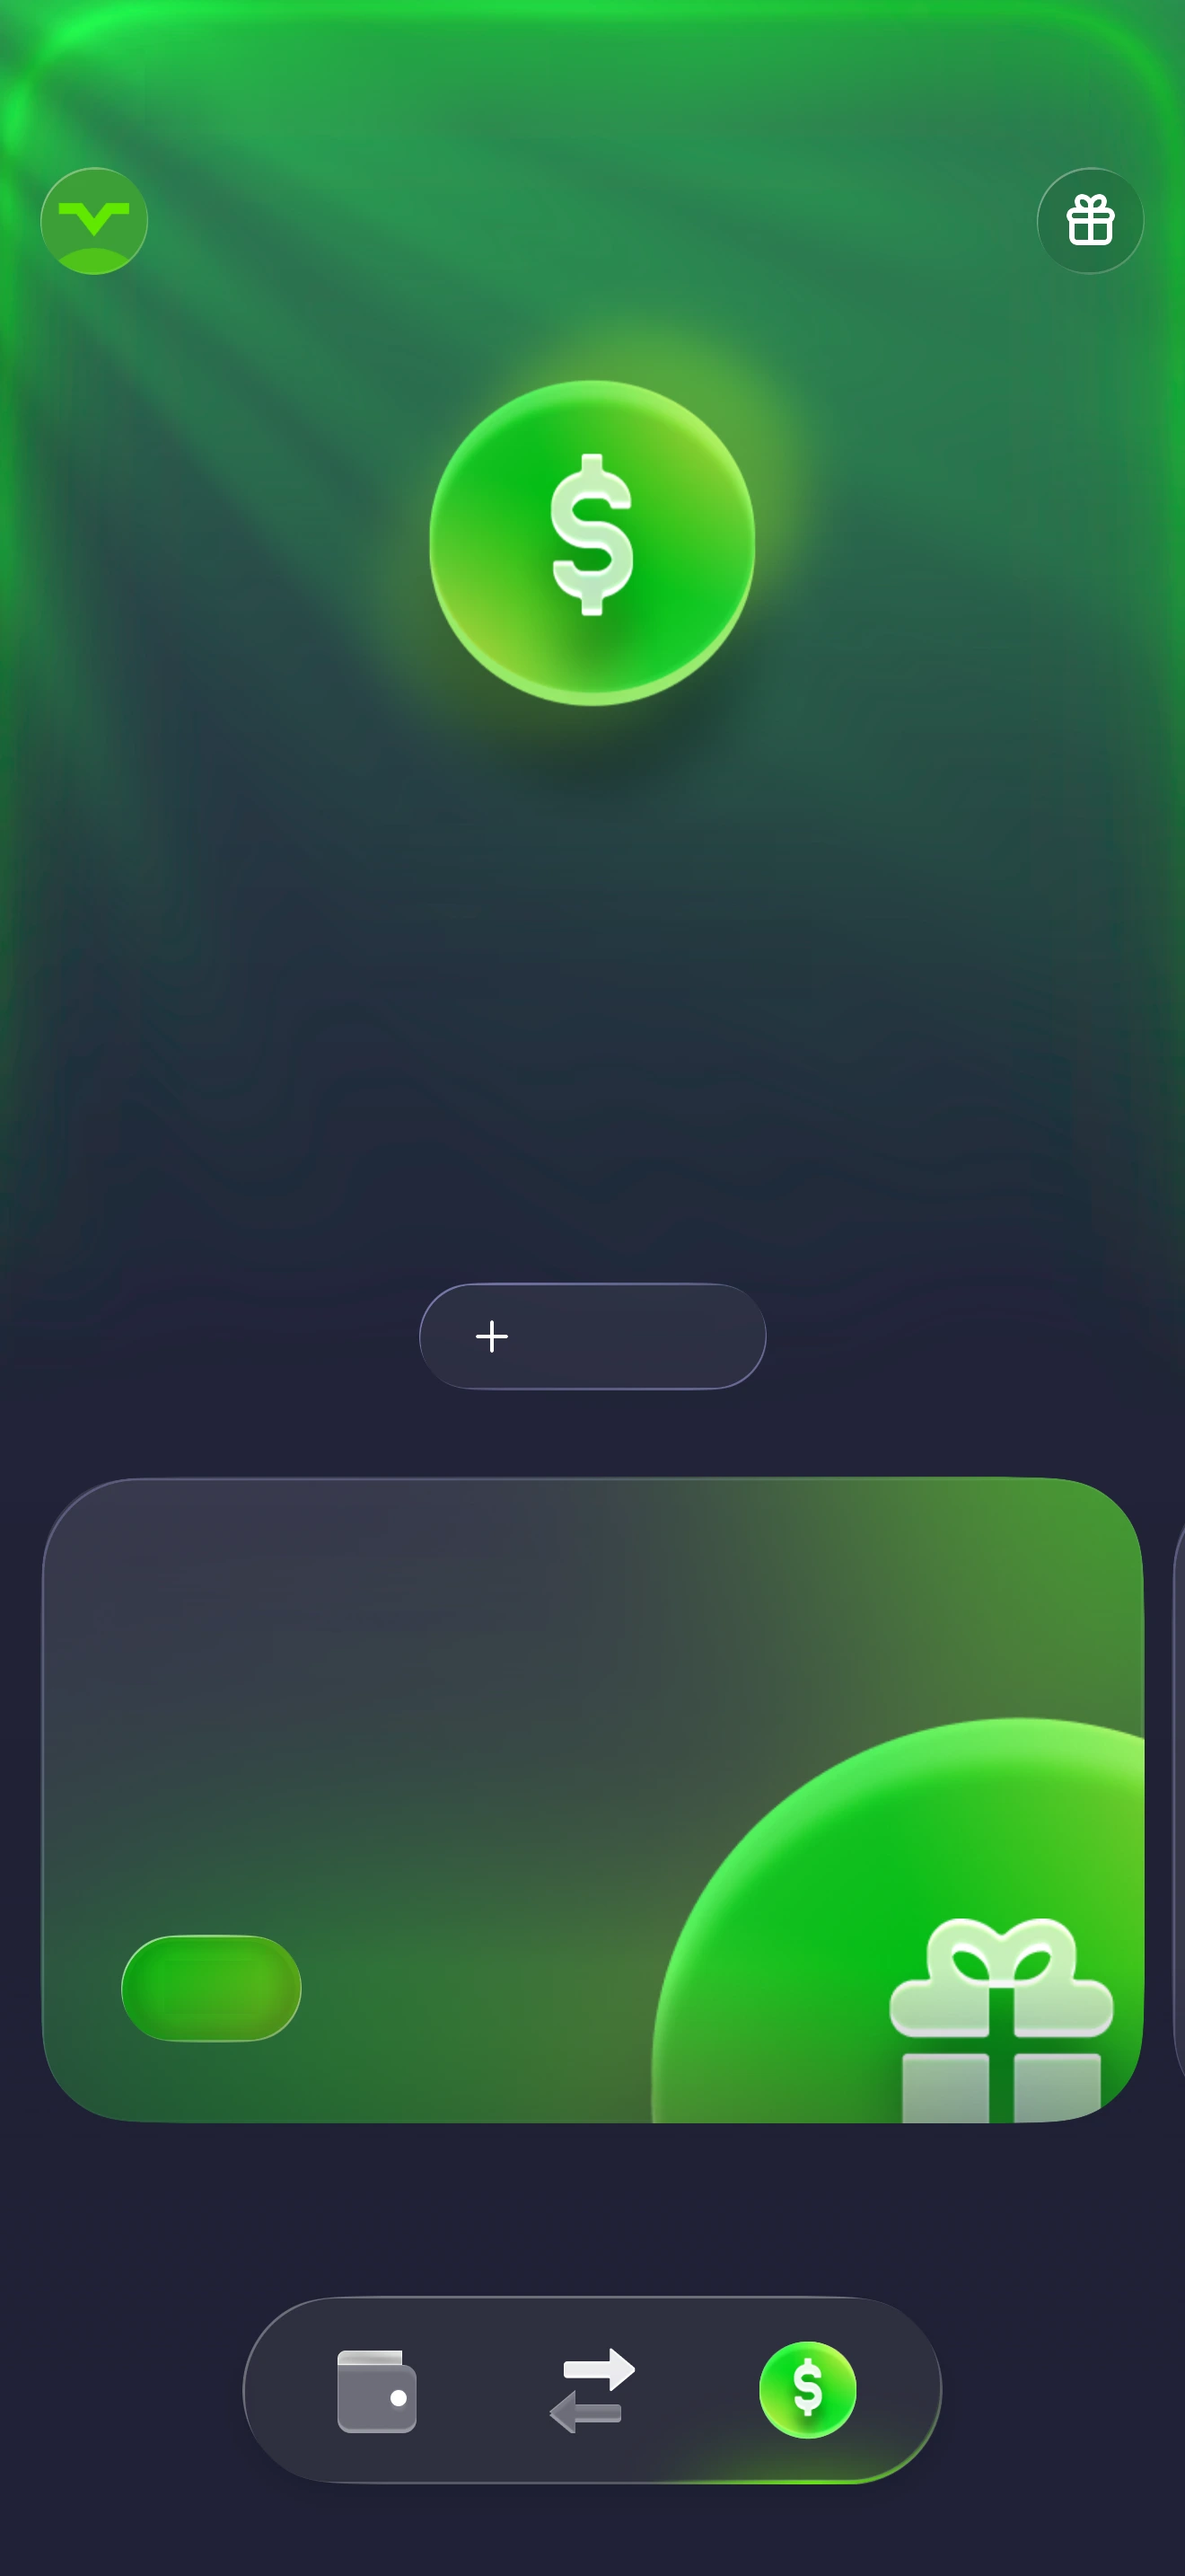
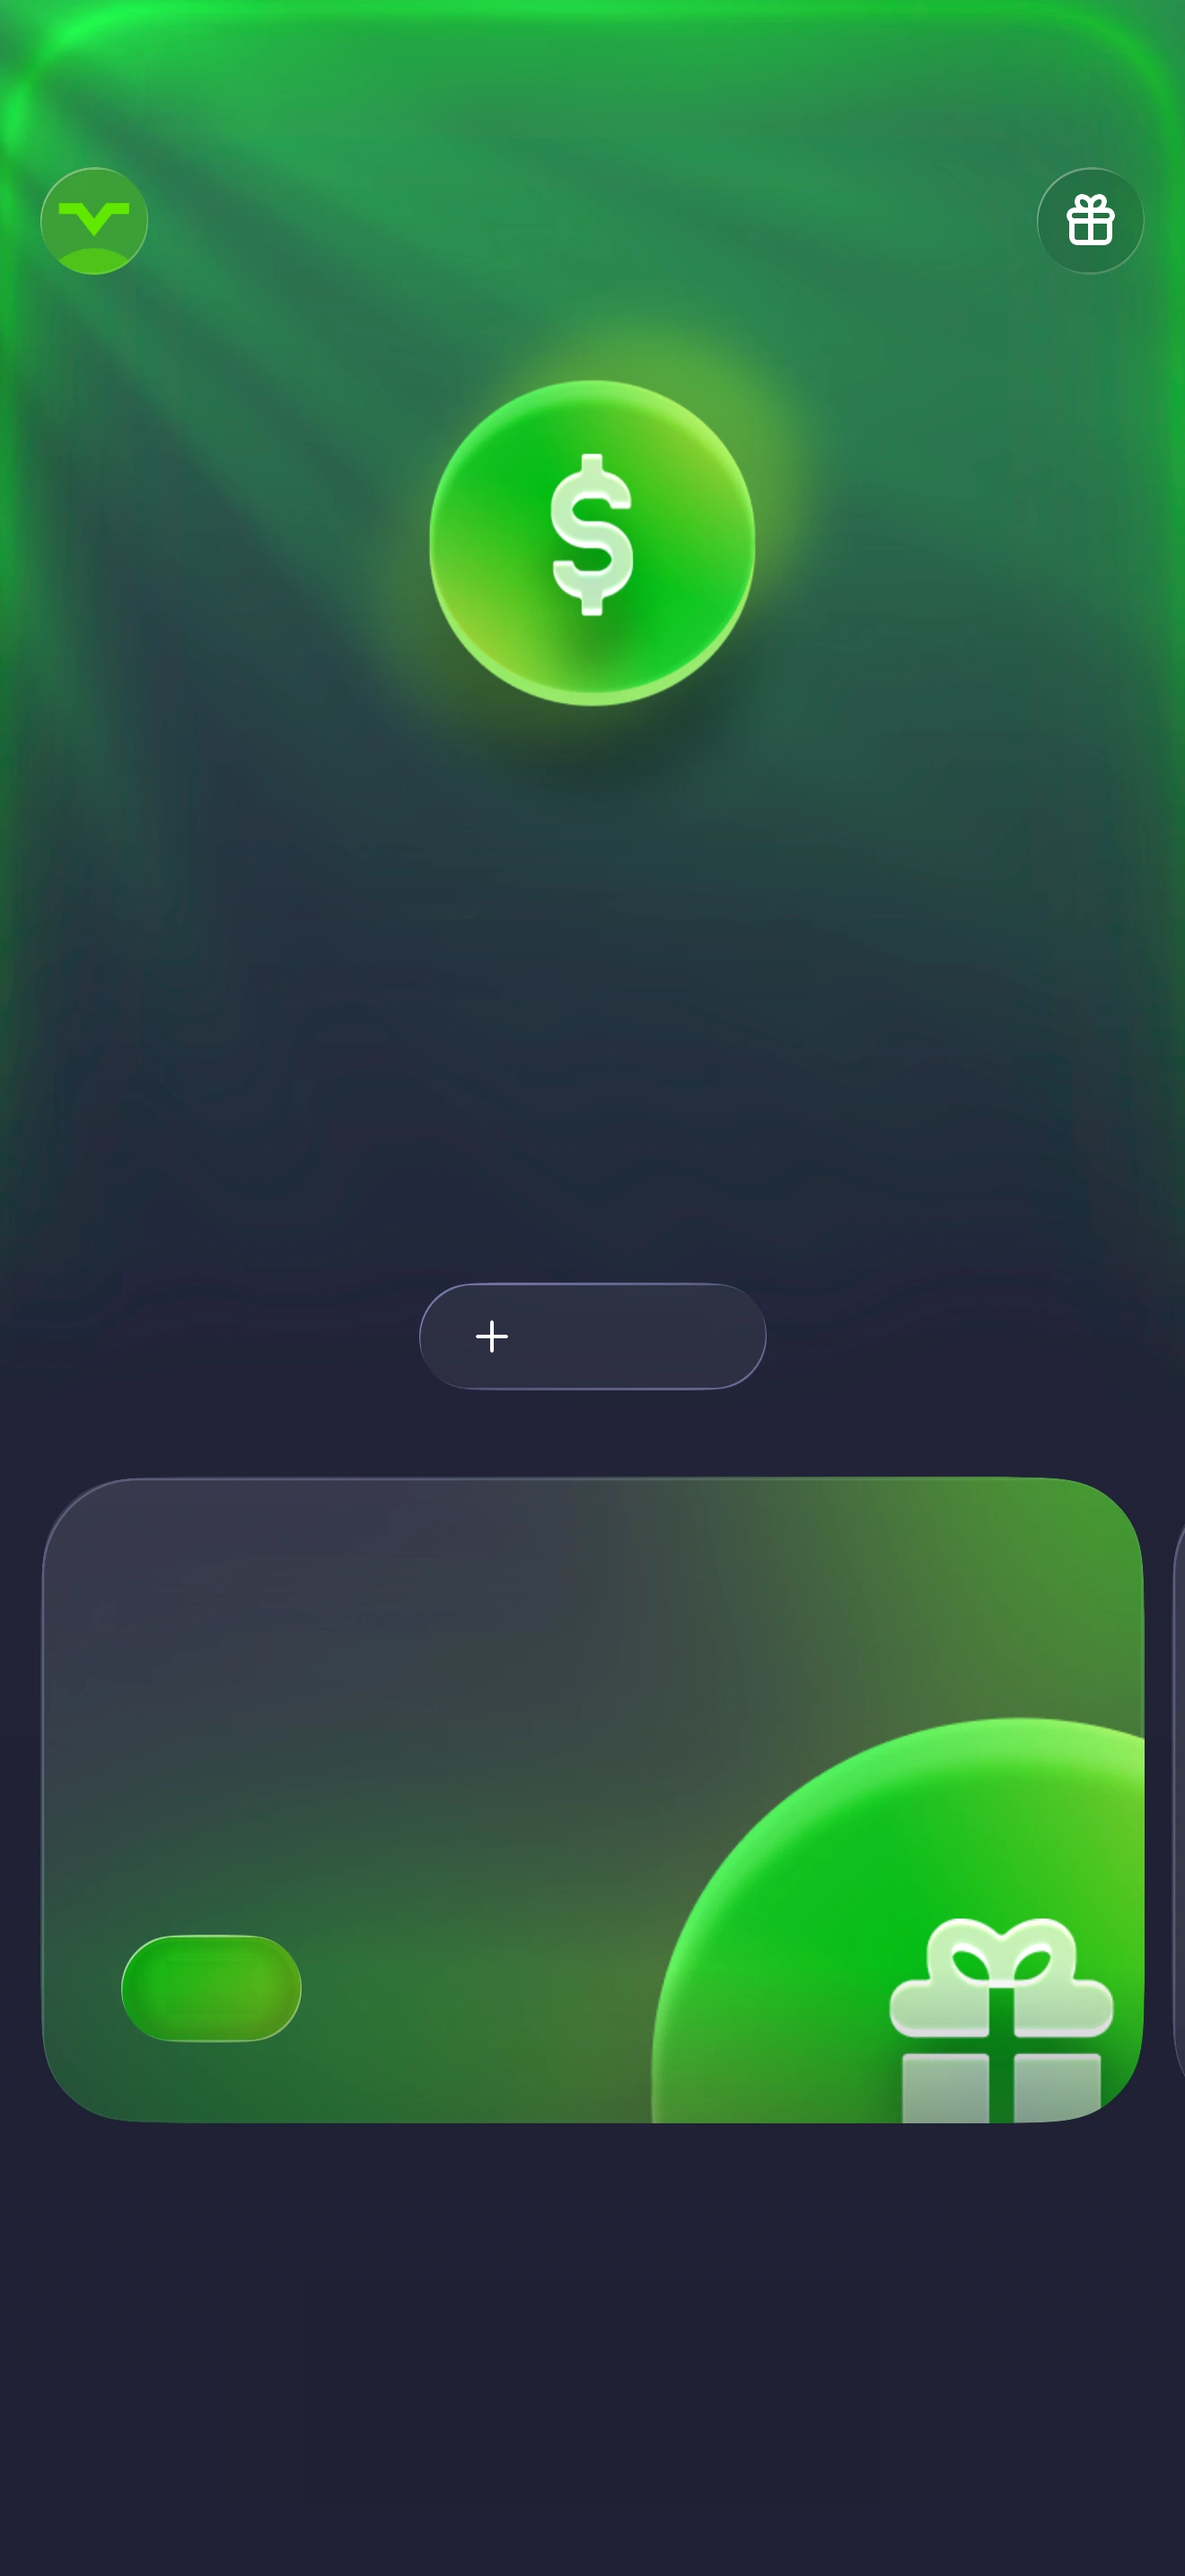
Floating tab bar shared by Wallet, Swap and Cash
Claude-Session: https://claude.ai/code/session_01SBE1Cu7BgedHNHESR53XK2

Changed region(s): [[0.5591, 0.8999, 0.7765, 0.962], [0.2795, 0.8999, 0.3727, 0.962], [0.4659, 0.8999, 0.528, 0.962]]

diff --git a/walletui/index.html b/walletui/index.html
@@ -15,8 +15,12 @@ html,body{margin:0;width:100%;height:100%;background:#1d1d36;color:#fff;overflow
 .content{position:relative;width:100%}
 .tx[data-hidden]{display:none}
 .hid .tx[data-hidden]{display:flex}.hid .tx[data-k=bal],.hid .tx[data-k=amt]{display:none}
-.nav{position:absolute;left:20.4%;width:59.4%;bottom:3.45%;aspect-ratio:547/151;border-radius:999px;overflow:hidden;z-index:3;transition:transform .3s ease,opacity .3s;pointer-events:none}
-.nav img{width:100%;height:100%;display:block}
+.nav{position:absolute;left:20.4%;width:59.4%;bottom:3.45%;aspect-ratio:547/151;border-radius:999px;z-index:3;transition:transform .3s ease,opacity .3s}
+.nav img{position:absolute;inset:0;width:100%;height:100%;display:block;border-radius:999px;opacity:0;transition:opacity .2s;pointer-events:none}
+.nav[data-t=wallet] .iw,.nav[data-t=swap] .is,.nav[data-t=cash] .ic{opacity:1}
+.nav.gone{display:none}
+.nav button{position:absolute;top:0;height:100%;width:33.4%;border:0;background:none;padding:0;cursor:pointer;border-radius:999px;-webkit-tap-highlight-color:transparent}
+.nav button:focus-visible{outline:2px solid #fff}
 .nav.away{transform:translateY(160%);opacity:0}
 .tx{position:absolute;display:flex;align-items:center;white-space:pre;line-height:1.15;color:#fff;pointer-events:none}
 .tx.l{justify-content:flex-start}.tx.c{justify-content:center;text-align:center}.tx.r{justify-content:flex-end;text-align:right}
@@ -50,6 +54,7 @@ html,body{margin:0;width:100%;height:100%;background:#1d1d36;color:#fff;overflow
 <div id="phone"></div>
 <script src="cfg.js"></script>
 <script>
+const imgSrc=k=>'img/'+k+'.webp';
 const P=document.getElementById('phone');
 const $=(h)=>{const d=document.createElement('div');d.innerHTML=h;return d.firstElementChild};
 function build(key,parent){
@@ -57,7 +62,7 @@ function build(key,parent){
   let host=s;
   if(key==='wallet'){const sc=$('<div class="scroller"></div>');host=$('<div class="content"></div>');
     host.style.aspectRatio=c.ar;sc.appendChild(host);s.appendChild(sc);s.scroller=sc;s.content=host}
-  host.appendChild($('<img src="img/'+key+'.webp" alt="" draggable="false">'));
+  host.appendChild($('<img src="'+imgSrc(key)+'" alt="" draggable="false">'));
   c.items.forEach(it=>{
     if(!it.runs.length)return;
     const d=$('<div class="tx '+it.a+'"></div>');
@@ -74,21 +79,20 @@ const scr={};['wallet','cash','swap','add'].forEach(k=>scr[k]=build(k,P));
 P.appendChild($('<div id="scrim"></div>'));
 const port=$('<div id="port"></div>');P.appendChild(port);const portS=build('port',port);
 const scrim=document.getElementById('scrim');
-function go(k){Object.entries(scr).forEach(([n,s])=>s.classList.toggle('on',n===k));closeSheet()}
+function go(k){Object.entries(scr).forEach(([n,s])=>s.classList.toggle('on',n===k));closeSheet();
+  nav.dataset.t=k==='add'?'cash':k;nav.classList.toggle('gone',k==='add');if(k!=='wallet')nav.classList.remove('away')}
 function openPort(){scrim.classList.add('on');port.classList.add('on')}
 function closeSheet(){scrim.classList.remove('on');port.classList.remove('on')}
 scrim.onclick=closeSheet;portS.addEventListener('click',e=>{if(e.clientY-port.getBoundingClientRect().top<120)closeSheet()});
-['cash','swap'].forEach(k=>{
-  hs(scr[k],240,1800,345,1910,()=>go('wallet'));hs(scr[k],410,1800,510,1910,()=>go('swap'));hs(scr[k],570,1800,690,1910,()=>go('cash'))});
-// wallet: long page + floating tab bar
 const W=scr.wallet,CH=921/CFG.wallet.ar;
-const nav=$('<div class="nav"><img src="img/nav.webp" alt="" draggable="false"></div>');W.appendChild(nav);
-hs(W,240,1800,345,1910,()=>go('wallet'));hs(W,410,1800,510,1910,()=>go('swap'));hs(W,570,1800,690,1910,()=>go('cash'));
+const nav=$('<div class="nav" data-t="wallet"><img class="iw" src="'+imgSrc('navw')+'" alt=""><img class="ic" src="'+imgSrc('navc')+'" alt=""><img class="is" src="'+imgSrc('navs')+'" alt=""></div>');
+[['wallet','Wallet',0],['swap','Swap',33.3],['cash','Cash',66.6]].forEach(([k,l,x])=>{const b=$('<button type="button" aria-label="'+l+'"></button>');b.style.left=x+'%';b.onclick=()=>go(k);nav.appendChild(b)});
+P.appendChild(nav);
 hs(W.content,130,250,800,925,()=>W.content.classList.toggle('hid'),CH);
 hs(W.content,30,125,118,215,openPort,CH);
 (()=>{let last=0;W.scroller.addEventListener('scroll',()=>{const y=W.scroller.scrollTop;
   if(y>last+4&&y>150)nav.classList.add('away');else if(y<last-4||y<150)nav.classList.remove('away');last=y},{passive:true})})();
-hs(scr.cash,326,997,595,1078,()=>{Object.values(scr).forEach(s=>s.classList.remove('on'));scr.add.classList.add('on')});
+hs(scr.cash,326,997,595,1078,()=>go('add'));
 hs(scr.add,0,0,921,1075,()=>go('cash'));
 
 /* ---------- editable balances ---------- */
